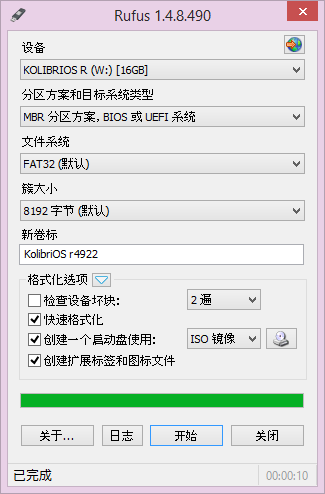
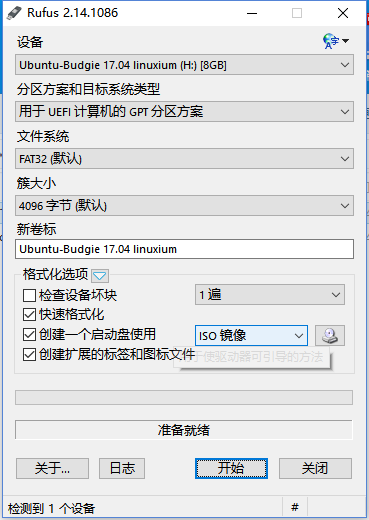
修正博文-在x86平板上面安装 Ubuntu

diff --git a/_posts/2017/2017-04-11-install-ubuntu-on-tablet.md b/_posts/2017/2017-04-11-install-ubuntu-on-tablet.md
@@ -15,6 +15,8 @@ x86 平板安装 win10 太卡，安装 android 兼容性不好，要是在上面
   > 这些系统都是打了补丁的所以可以直接安装，我下载的是「Ubuntu Budgie 17.04 Beta 1」。
   > 我已经将其系统从「谷歌网盘」复制到了「百度网盘」，稍后放出下载链接。
 
+2. 百度网盘链接：[http://pan.baidu.com/s/1c2cjqxU][href3] 密码：knz5
+
 2. 一块容量大于 4G 的 U盘 用来做系统安装盘，一根 OTG 线和一个 USB集线器 用来连鼠标和键盘。
 
 3. [rufus][href2] 用来将系统刻录到 U盘 的软件。
@@ -24,6 +26,8 @@ x86 平板安装 win10 太卡，安装 android 兼容性不好，要是在上面
 1. 「设备」选中用来刻录的 U盘。
 2. 然后点击「ISO镜像」 旁边的那个光驱图标选择将要刻录的系统。
 3. 点击「开始」用默认的设置，点确定直接开始刻录，等待进度条走满。
+> 注意：分区方案和目标系统类型： 「用于UEFI计算机的GPT分区方案」，其余的选项可以默认
+
    [![rufus][img2]][img2]{:data-lightbox="x86-table-linux"}
 
 ### 准备安装
@@ -54,6 +58,7 @@ x86 平板安装 win10 太卡，安装 android 兼容性不好，要是在上面
 
 [href1]: http://linuxiumcomau.blogspot.com/2017/03/ubuntu-16042-and-ubuntu-1704-beta-1.html
 [href2]: https://rufus.akeo.ie/
+[href3]: http://pan.baidu.com/s/1c2cjqxU
 
 [img1]: /images/post/linux/linuxium-page.png
 [img2]: /images/post/windows/rufus.png
